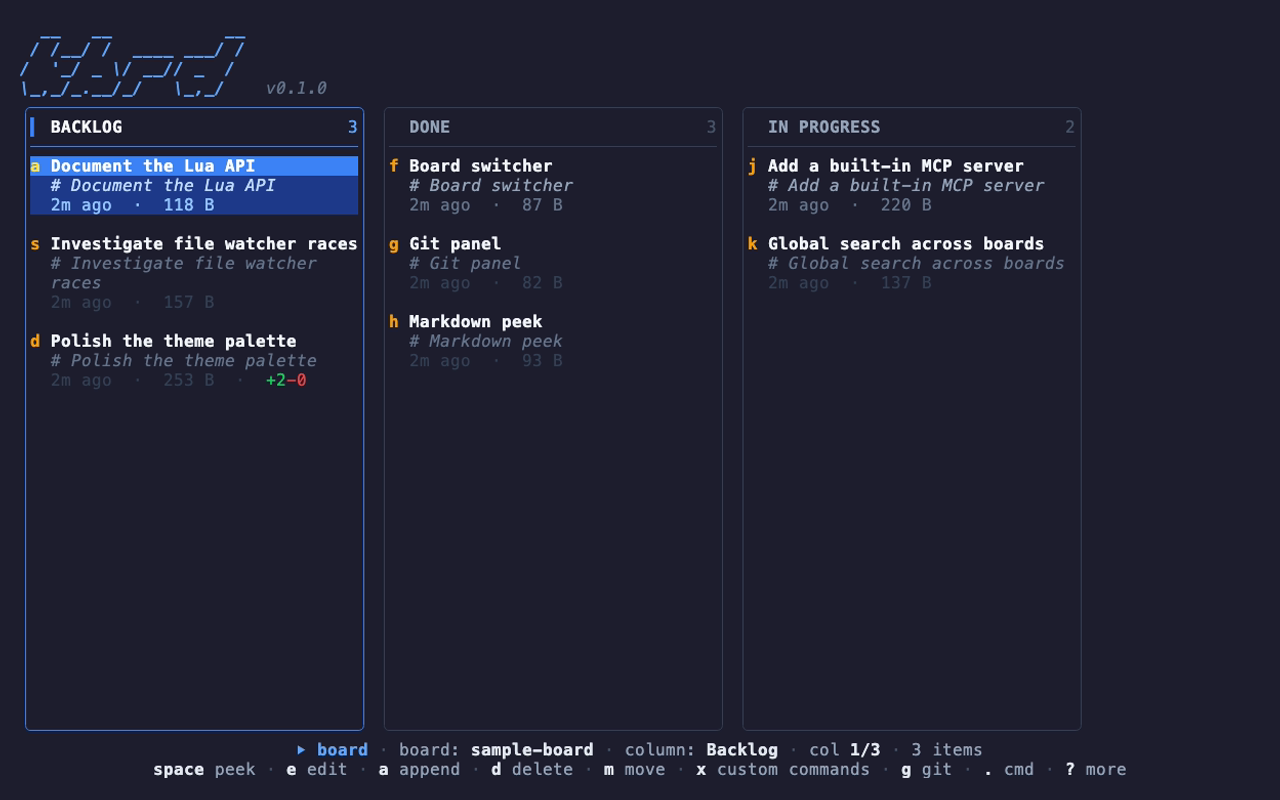
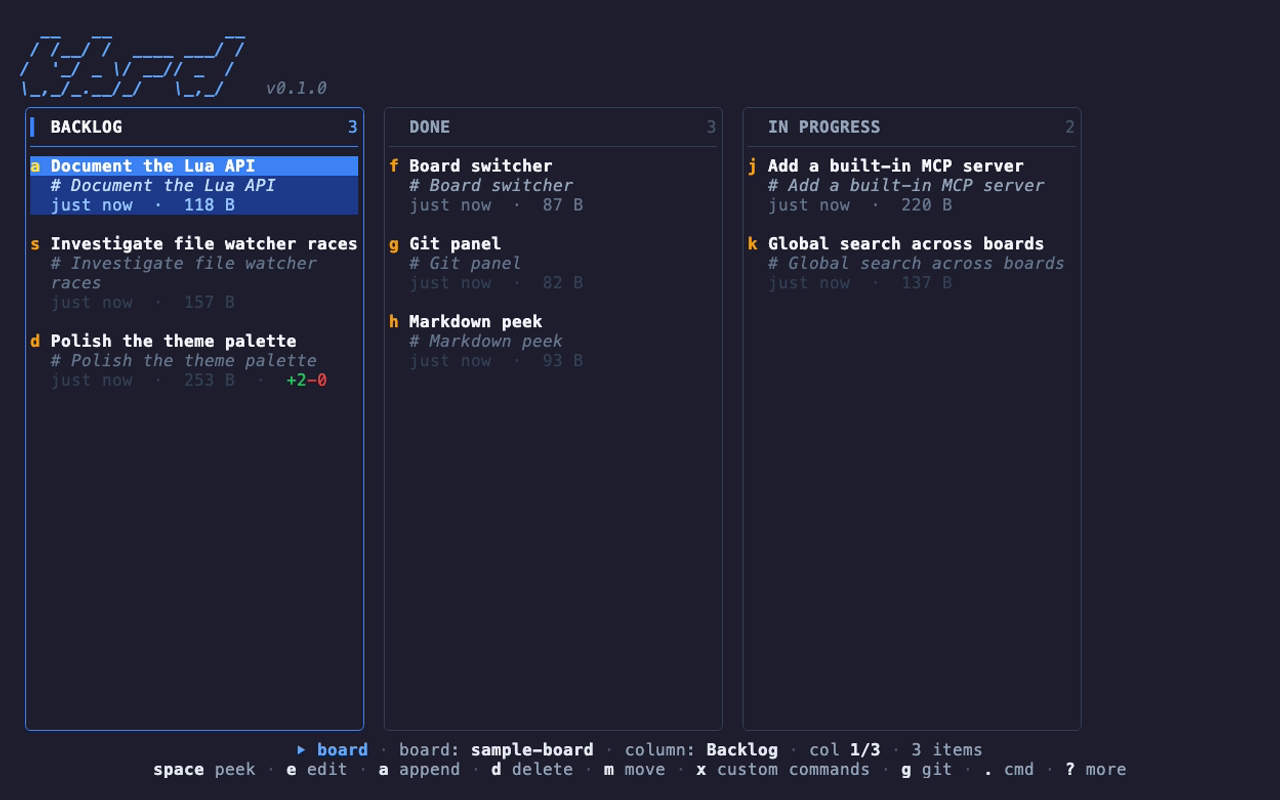
Add more screenshots

diff --git a/README.md b/README.md
@@ -94,10 +94,18 @@ A quick, scannable rundown of everything kbrd does:
   </tr>
   <tr>
     <td width="50%"><img src="docs/screenshots/search.png" alt="Global search across boards" width="100%"></td>
-    <td width="50%"><img src="docs/screenshots/help.png" alt="Keyboard shortcut help overlay" width="100%"></td>
+    <td width="50%"><img src="docs/screenshots/switcher.png" alt="Board switcher" width="100%"></td>
   </tr>
   <tr>
     <td align="center"><em>Fuzzy global search across boards (<code>f</code>)</em></td>
+    <td align="center"><em>Switch, pin, and remove boards (<code>Ctrl+P</code>)</em></td>
+  </tr>
+  <tr>
+    <td width="50%"><img src="docs/screenshots/custom-commands.png" alt="Custom commands menu" width="100%"></td>
+    <td width="50%"><img src="docs/screenshots/help.png" alt="Keyboard shortcut help overlay" width="100%"></td>
+  </tr>
+  <tr>
+    <td align="center"><em>Run templated shell commands on a card (<code>x</code>)</em></td>
     <td align="center"><em>Discover every shortcut with the help overlay (<code>?</code>)</em></td>
   </tr>
 </table>